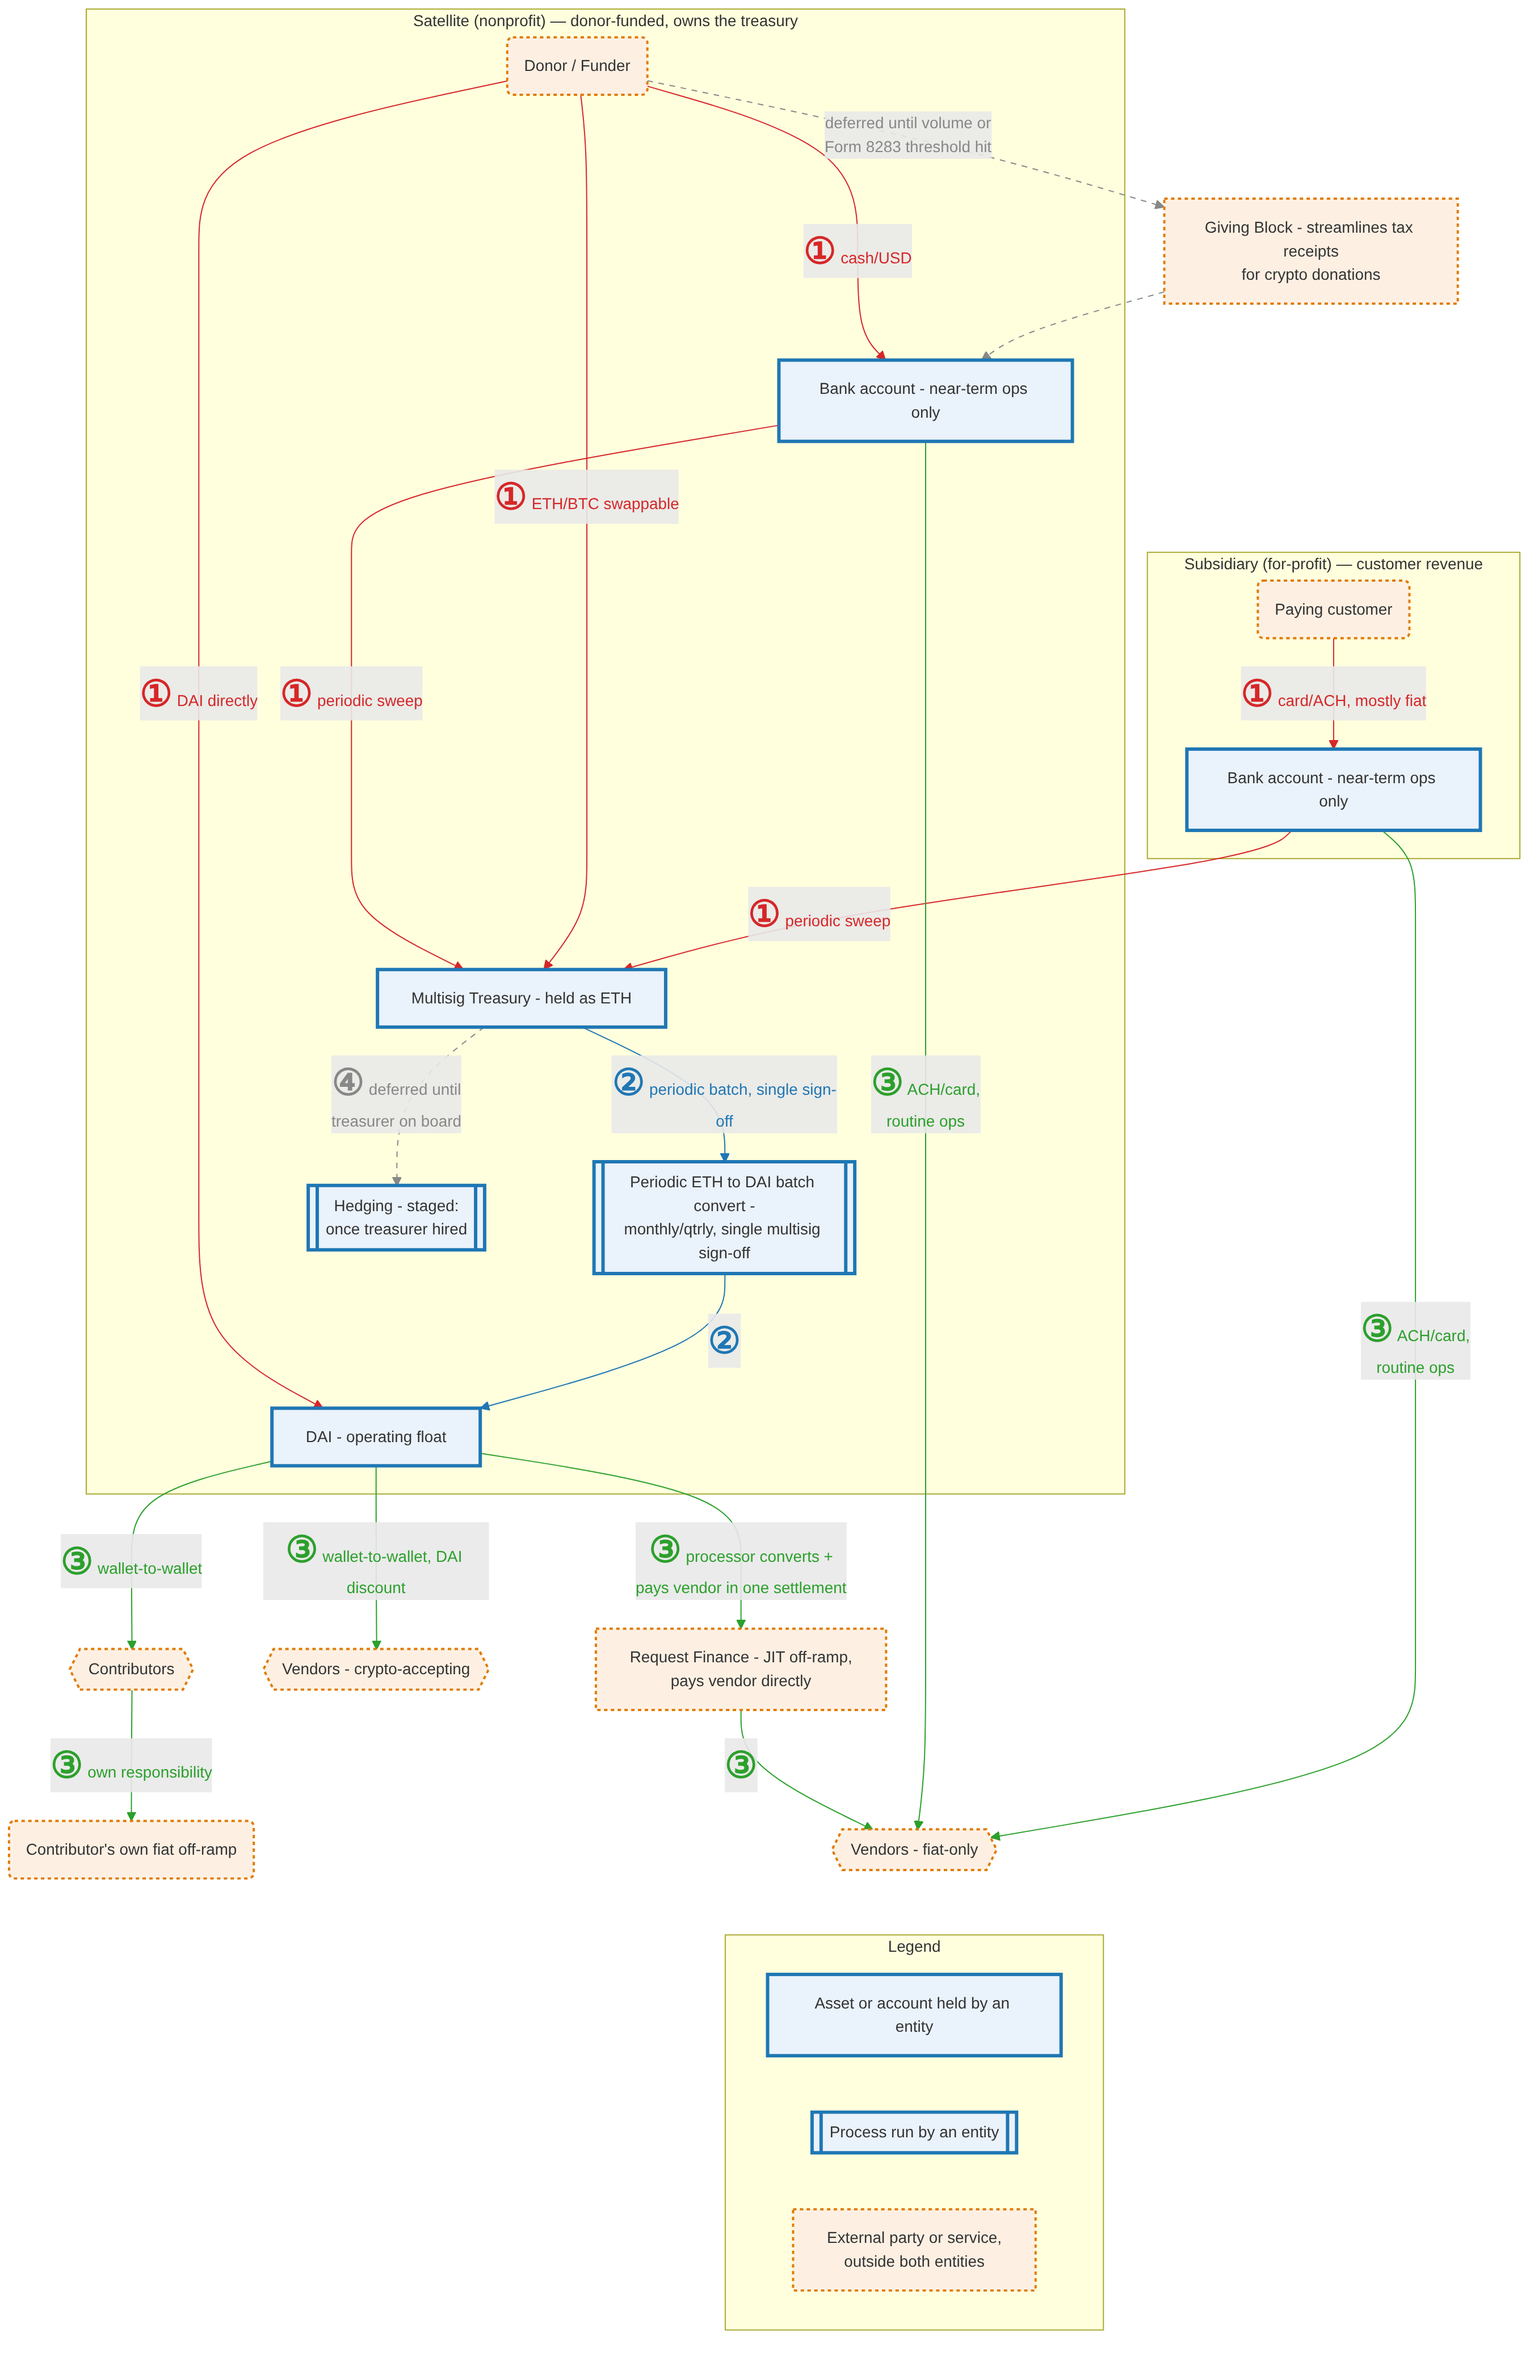
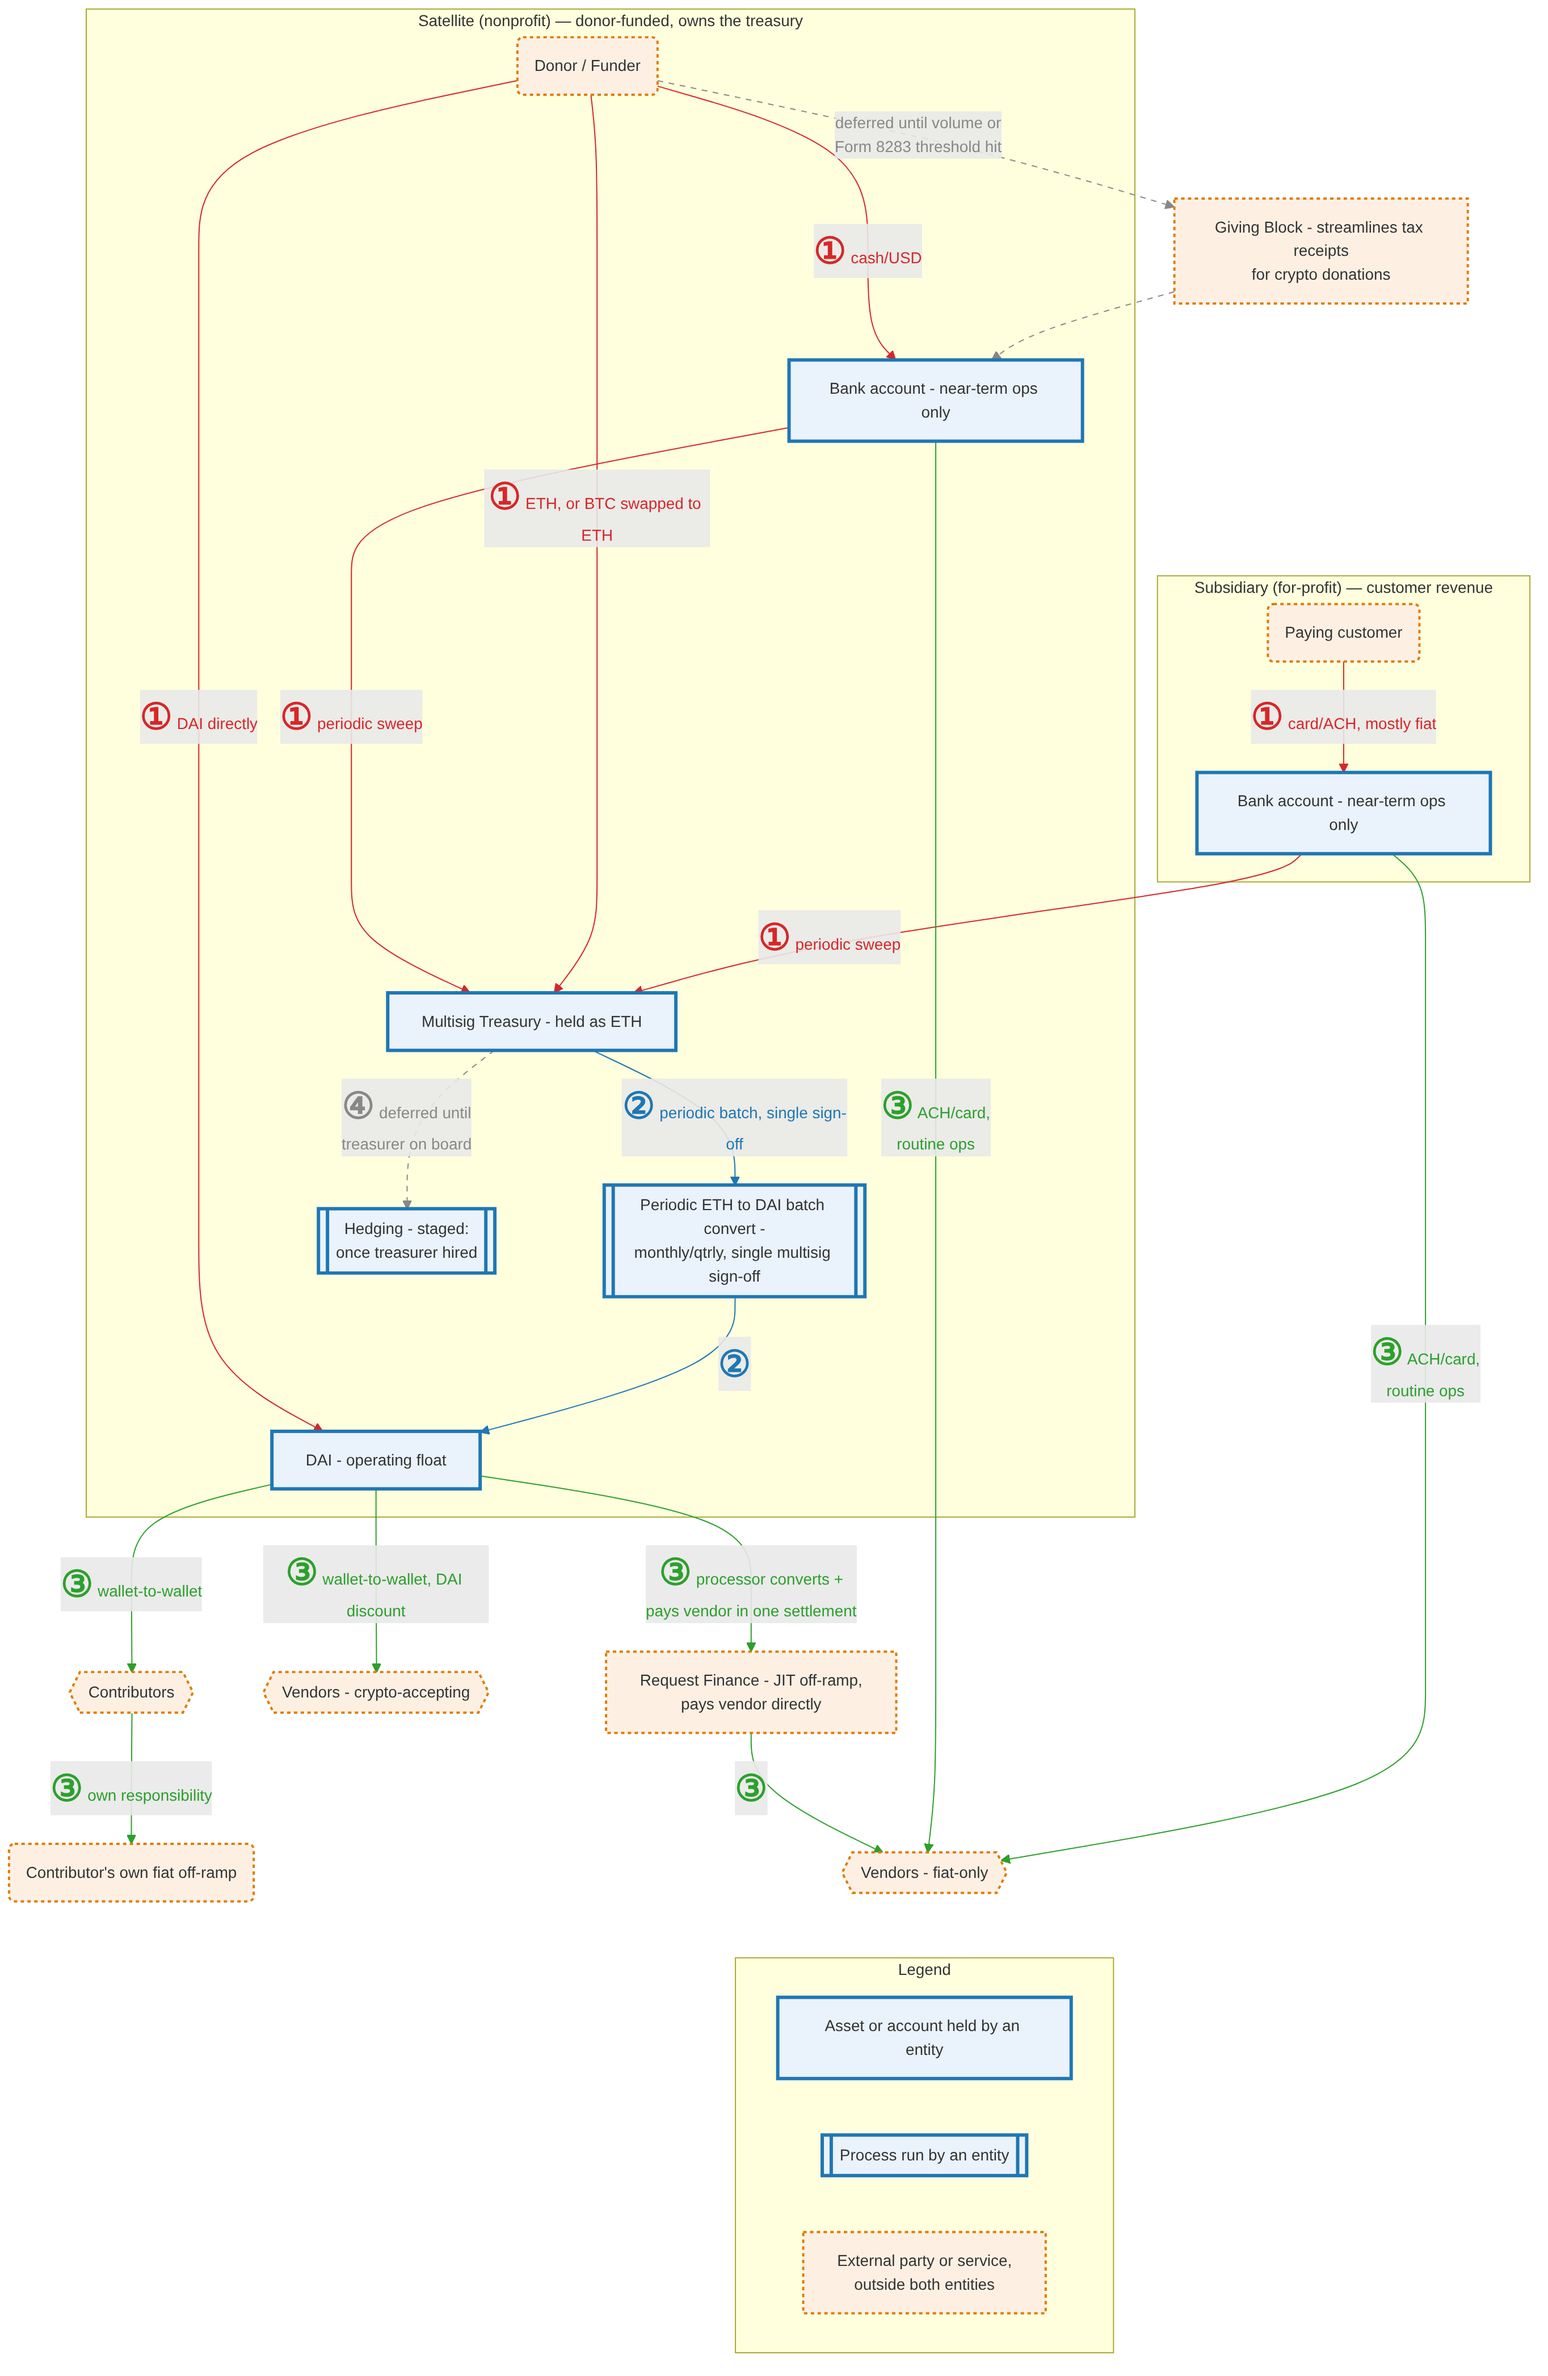
docs: say BTC donations are swapped to ETH on arrival in the fund-flows text and diagram

diff --git a/governance/commons-hub-pattern.md b/governance/commons-hub-pattern.md
@@ -837,14 +837,14 @@ Dashed $\color{orange}{\text{orange}}$ boxes are external parties, outside both 
 
 *Money in* ($\color{red}{\text{①}}$). Donor gifts reach the Satellite and customer revenue reaches
 the subsidiary. A donor can send cash to the Satellite's bank account, DAI directly to the
-operating float, or ETH or BTC straight to the treasury. Customers pay the subsidiary by card or
-ACH, mostly in fiat. Whatever lands in a bank account is swept periodically into the multisig
-treasury and held as ETH. That is the reason both bank accounts are labeled "near-term ops only":
-bank accounts are the one part of this structure a U.S. freeze can reach, so we keep as little in
-them as possible. The Satellite and its subsidiary are separate legal entities, which is why each
-keeps its own bank account. Everything downstream of the sweep, from the treasury to the DAI
-float, belongs to the Satellite, so the subsidiary's sweep is a distribution from a wholly-owned
-subsidiary to its parent.
+operating float, ETH straight to the treasury, or BTC, which is swapped to ETH on arrival.
+Customers pay the subsidiary by card or ACH, mostly in fiat. Whatever lands in a bank account is
+swept periodically into the multisig treasury and held as ETH. That is the reason both bank
+accounts are labeled "near-term ops only": bank accounts are the one part of this structure a U.S.
+freeze can reach, so we keep as little in them as possible. The Satellite and its subsidiary are
+separate legal entities, which is why each keeps its own bank account. Everything downstream of
+the sweep, from the treasury to the DAI float, belongs to the Satellite, so the subsidiary's sweep
+is a distribution from a wholly-owned subsidiary to its parent.
 
 *Converting* ($\color{blue}{\text{②}}$). Once a month or quarter, a batch converts part of the ETH
 treasury into DAI on a single multisig sign-off, refilling the operating float. This is the
